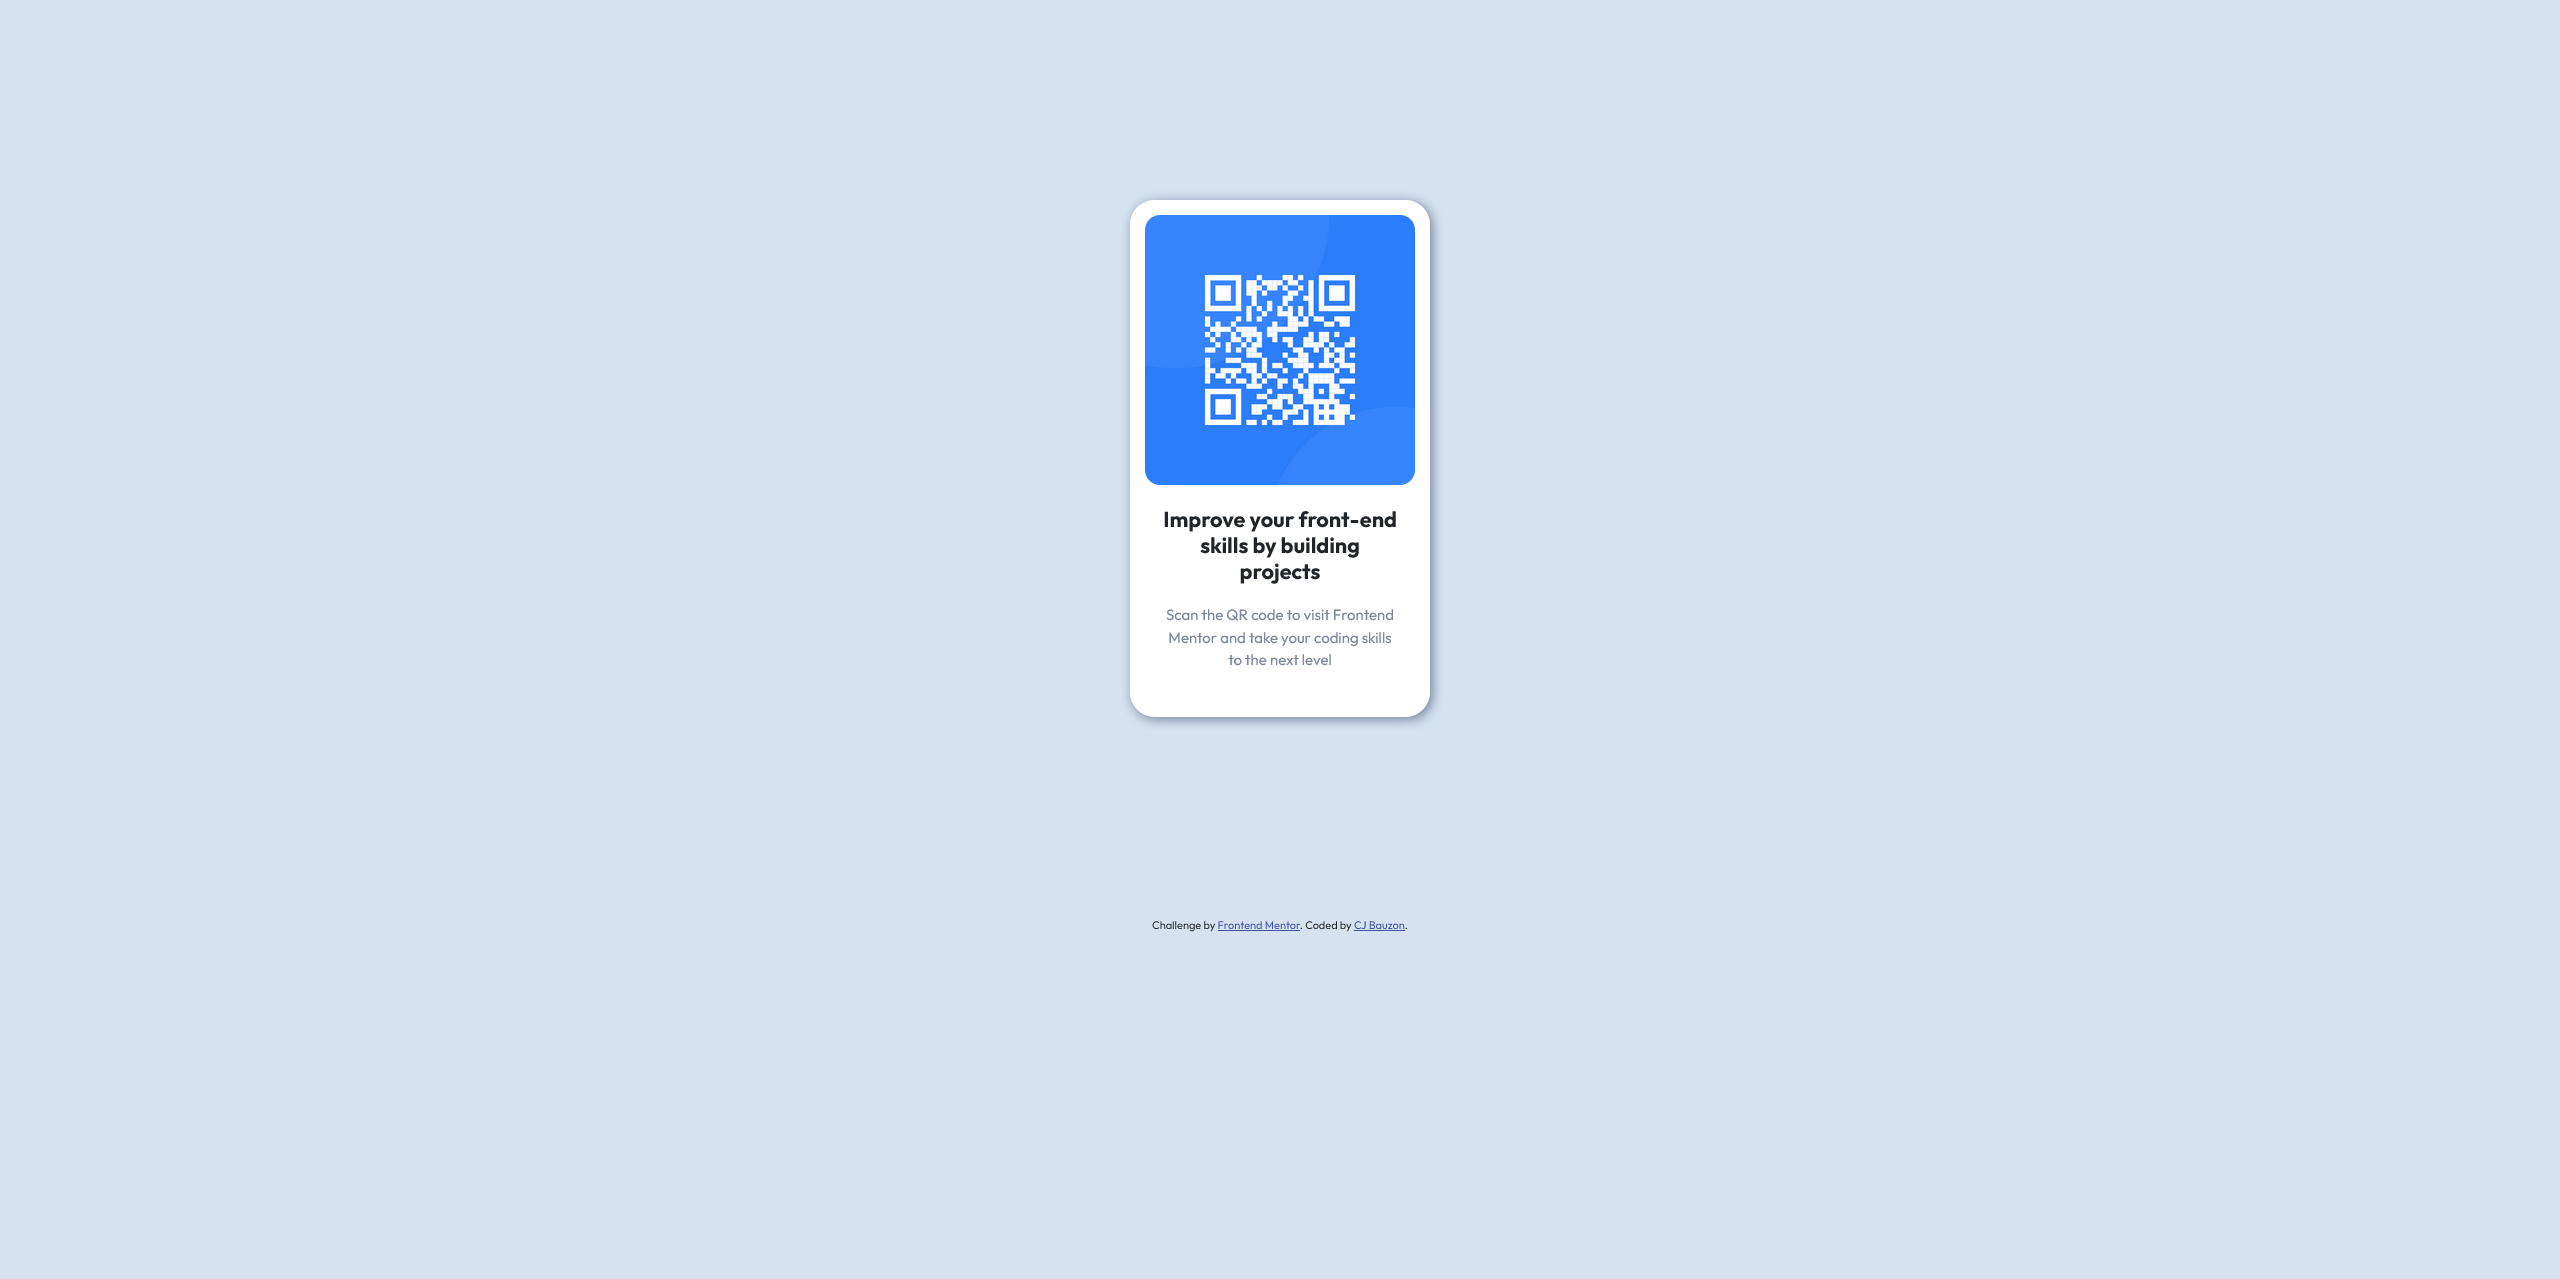
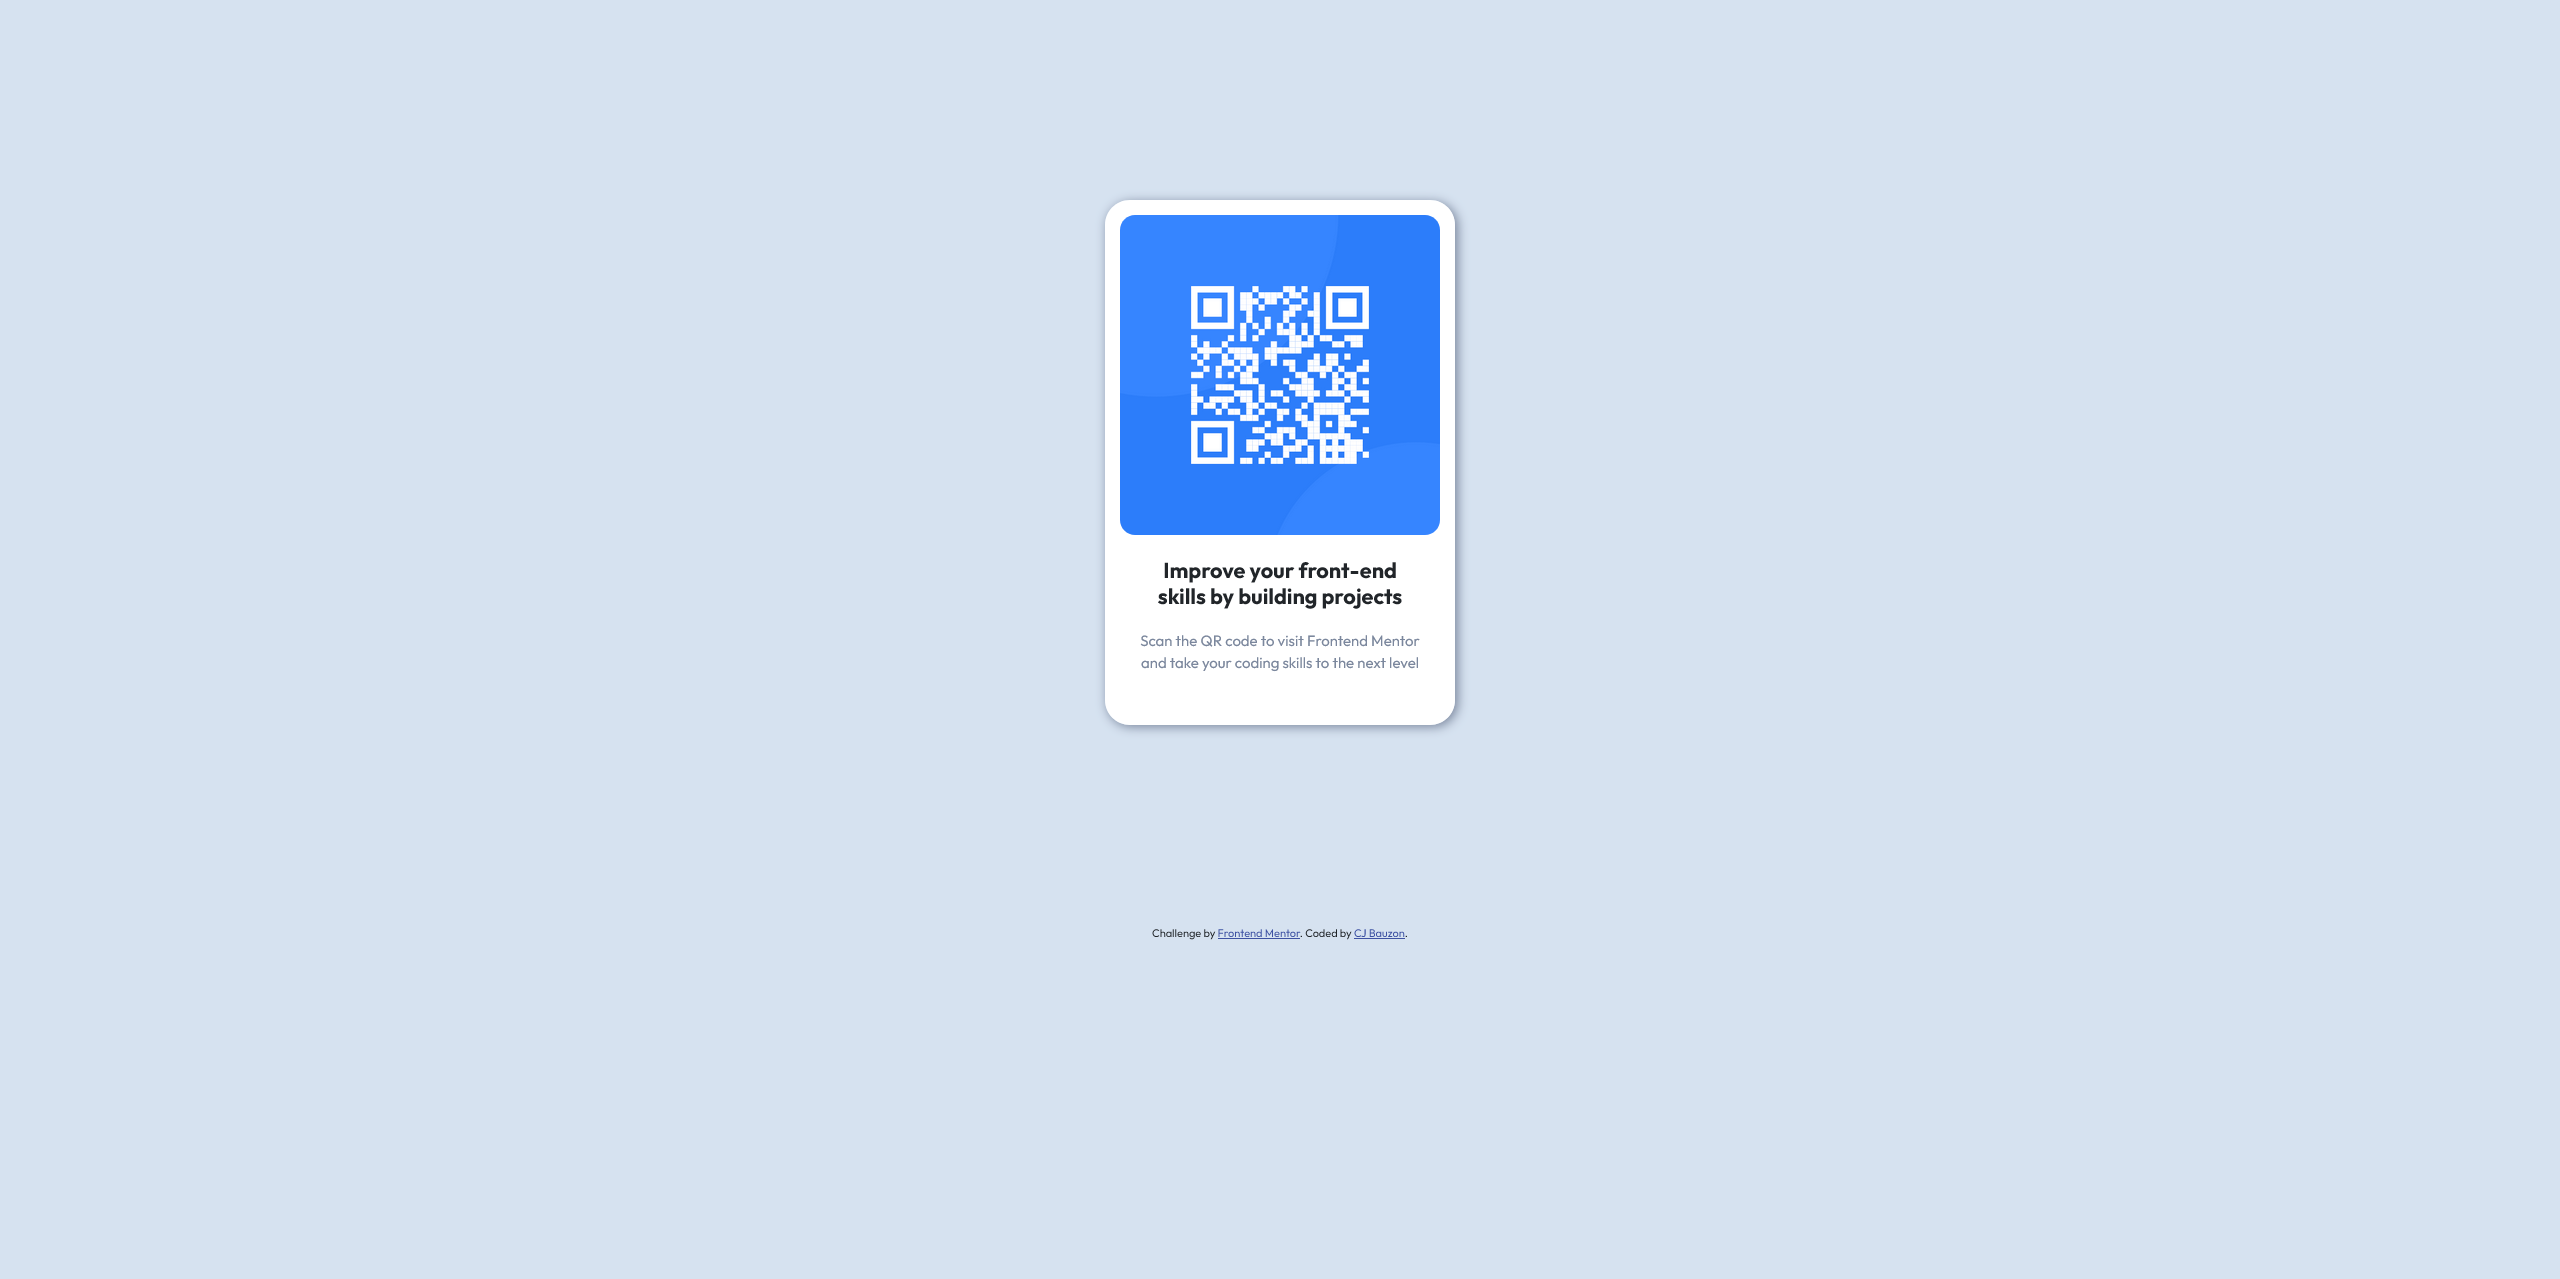
Changed the size of the white box

Changed region(s): [[0.4062, 0.1525, 0.5938, 0.5794], [0.4375, 0.7013, 0.5625, 0.7318]]

diff --git a/css/stylesheet.css b/css/stylesheet.css
@@ -32,7 +32,7 @@ p {
     box-shadow: 2px 2px 10px 0.5px hsl(220, 15%, 55%);
     text-align: center;
     margin: 200px auto;
-    width: 300px;
+    width: 325px;
 }
 
 .qr-code {
